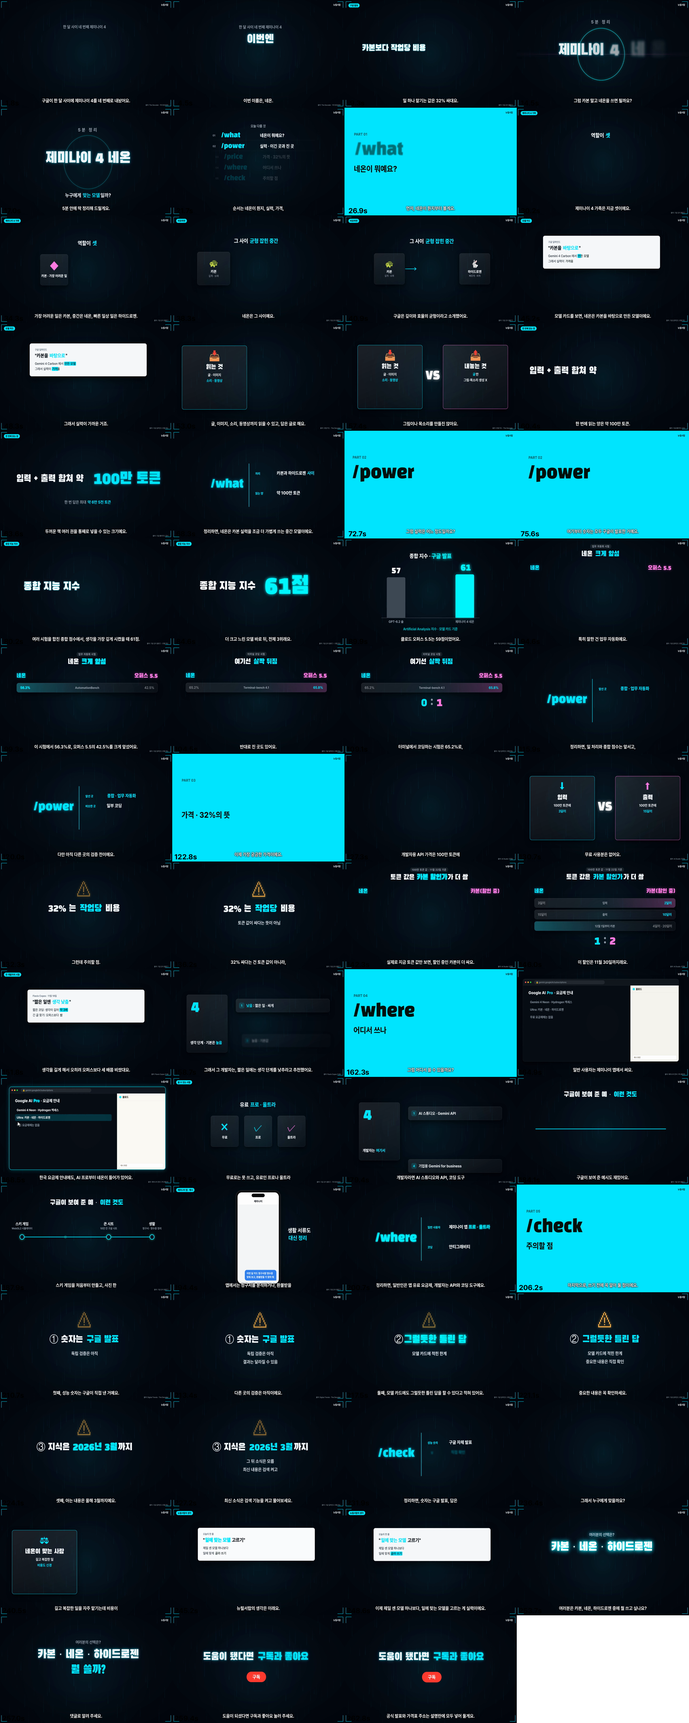
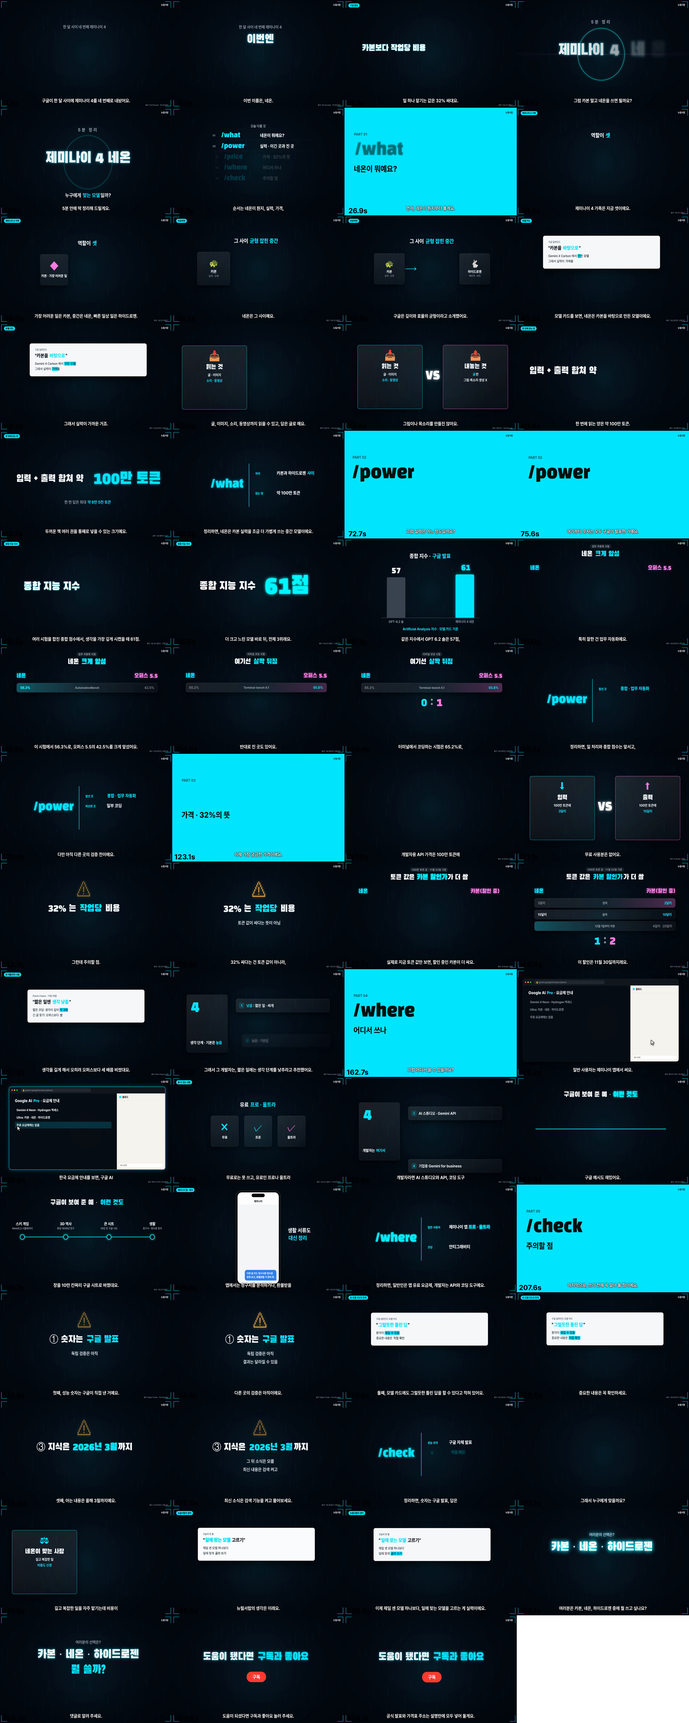
제미나이 4 네온 5분 영상 v1 세트(듣기 검수 0건 · PC 재녹음 필요 표시)
Claude-Session: https://claude.ai/code/session_01QAwgc5CgfRqDU2a4ySE2yW

diff --git a/output/neon4_neon/qc_report.md b/output/neon4_neon/qc_report.md
@@ -1,12 +1,12 @@
 # 품질검수 보고서
 
-- 파일: `final.mp4`  길이 265.9초
-- 음량: -14.4 LUFS (목표 -14), 피크 -4.293121 dB
+- 파일: `final.mp4`  길이 267.23초
+- 음량: -14.4 LUFS (목표 -14), 피크 -4.182065 dB
 
 | 항목 | 결과 |
 |---|---|
-| 음성↔대본 일치(완성본 재인식) | ⚠ 불일치 4/63 구간 (CER>0.3) |
-| TTS 자동 재생성 | 5구간 재생성 후 최적본 채택 |
+| 음성↔대본 일치(완성본 재인식) | ⚠ 불일치 5/63 구간 (CER>0.3) |
+| TTS 자동 재생성 | 4구간 재생성 후 최적본 채택 |
 | 소리 끊김 | ✅ 0건 |
 | 화면 멈춤(2.0초 이상) | ⚠ 2건 |
 | 검은 화면 | ✅ 0건 |
@@ -21,10 +21,10 @@
 | 5.92 | 구글 발표로는, 최상위 카본에 가까운 실력인데, 일 하나 맡기는 값은 32% 싸대요. | 구글 발표로는, 최상위 카본에 가까운 실력인데, 일 하나 맡기는 값은 삼십이 퍼센트 싸대요. | 구글발표로는최상위학원에가까운실력인데이러나맡기는값은 32퍼센트싸대요. | 0.111 |
 | 13.09 | 그럼 카본 말고 네온을 쓰면 될까요? | 그럼 카본 말고 네온을 쓰면 될까요? | 그럼카운말고내원을쓰면될까요? | 0.214 |
 | 16.05 | 5분 안에 딱 정리해 드릴게요. | 오 분 안에 딱 정리해 드릴께요. | 5분안에딱정리해드릴게요. | 0.0 |
-| 18.45 | 순서는 네온이 뭔지, 실력, 가격, 어디서 쓰는지, 그리고 주의할 점이에요. | 순서는 네온이 뭔지, 실력, 가격, 어디서 쓰는지, 그리고 주의할 점이에요. | 순서는내용이뭔지실역가격어디서쓰는지그리고주의할점이에요. | 0.107 |
+| 18.45 | 순서는 네온이 뭔지, 실력, 가격, 어디서 쓰는지, 그리고 주의할 점이에요. | 순서는 네온이 뭔지, 실력, 가격, 어디서 쓰는지, 그리고 주의할 점이에요. | 순서는내운이뭔지실력가격어디서쓰는지그리고주의할점이에요. | 0.071 |
 | 25.45 | 먼저, 네온이 뭔지부터 볼게요. | 먼저, 네온이 뭔지부터 볼께요. | 먼저내용이뭔지부터볼게요. | 0.167 |
 | 28.82 | 제미나이 4 가족은 지금 셋이에요. | 제미나이 사 가족은 지금 셋이에요. | 재민아이사가족은지금 3시에요. | 0.357 ⚠ |
-| 31.66 | 가장 어려운 일은 카본, 중간은 네온, 빠른 일상 일은 하이드로젠. | 가장 어려운 일은 카본, 중간은 네온, 빠른 일상 일은 하이드로젠. | 가장어려운일은학원중간은내혼, 빠른일상일은하이드로젠. | 0.16 |
+| 31.66 | 가장 어려운 일은 카본, 중간은 네온, 빠른 일상 일은 하이드로젠. | 가장 어려운 일은 카본, 중간은 네온, 빠른 일상 일은 하이드로젠. | 가장어려운일은카본중간은내혼, 빠른일상일은하이드로젠. | 0.08 |
 | 37.45 | 네온은 그 사이예요. | 네온은 그 사이예요. | 내오는그사이에요. | 0.5 ⚠ |
 | 39.29 | 구글은 깊이와 효율의 균형이라고 소개했어요. | 구글은 깊이와 효율의 균형이라고 소개했어요. | 구글은기피와효율에균형이라고소개했어요. | 0.158 |
 | 42.92 | 모델 카드를 보면, 네온은 카본을 바탕으로 만든 모델이에요. | 모델 카드를 보면, 네온은 카본을 바탕으로 만든 모델이에요. | 로들카드를보면내오는카분을바탕으로만든모델이에요. | 0.25 |
@@ -32,59 +32,59 @@
 | 49.59 | 글, 이미지, 소리, 동영상까지 읽을 수 있고, 답은 글로 해요. | 글, 이미지, 소리, 동영상까지 읽을 수 있고, 답은 글로 해요. | 그이미지소리. 동영상까지읽을수있고답은글로에요. | 0.091 |
 | 56.43 | 그림이나 목소리를 만들진 않아요. | 그림이나 목소리를 만들진 않아요. | 그림이나목소리를만들진않아요. | 0.0 |
 | 58.85 | 한 번에 읽는 양은 약 100만 토큰. | 한 번에 읽는 양은 약 백만 토큰. | 한번에있는양은약백만토크. | 0.167 |
-| 62.01 | 두꺼운 책 여러 권을 통째로 넣을 수 있는 크기예요. | 두꺼운 책 여러 권을 통째로 넣을 수 있는 크기예요. | 두꺼운책여러권을통째로넣을수있는크기에요. | 0.05 |
+| 62.05 | 두꺼운 책 여러 권을 통째로 넣을 수 있는 크기예요. | 두꺼운 책 여러 권을 통째로 넣을 수 있는 크기예요. | 두꺼운책여러권을통째로넣을수있는크기에요. | 0.05 |
 | 65.75 | 정리하면, 네온은 카본 실력을 조금 더 가볍게 쓰는 중간 모델이에요. | 정리하면, 네온은 카본 실력을 조금 더 가볍게 쓰는 중간 모델이에요. | 정리하면나오는카건실력을조금더가볍게쓰는중간모델이에요. | 0.148 |
 | 71.32 | 그럼 실력은 어느 정도일까요? | 그럼 실력은 어느 정도일까요? | 그럼실력은어느정도일까요? | 0.0 |
 | 74.2 | 여기부터 숫자는 모두 구글이 발표한 거예요. | 여기부터 숫자는 모두 구글이 발표한 거예요. | 여기부터숫자는모두구글이발평한거에요. | 0.111 |
 | 77.42 | 여러 시험을 합친 종합 점수에서, 생각을 가장 깊게 시켰을 때 61점. | 여러 시험을 합친 종합 점수에서, 생각을 가장 깊게 시켰을 때 육십일 점. | 여러시험을합친종합점수에서생각을가장깊게시켰을때 61점 | 0.0 |
 | 83.1 | 더 크고 느린 모델 바로 뒤, 전체 3위래요. | 더 크고 느린 모델 바로 뒤, 전체 삼 위래요. | 더크고느린모델바로왔지. 전체 3이래요. | 0.188 |
-| 86.65 | 같은 지수에서 GPT 6.2 솔은 57점, 클로드 오퍼스 5.5는 59점이었어요. | 같은 지수에서 지피티 육 점 이 솔은 오십칠 점, 클로드 오퍼스 오 점 오는 오십구 점이었어요. | 같은지수에서 GPT 6점이소론 57점 5점 5는 59점이었어요. | 0.222 |
-| 93.62 | 특히 잘한 건 업무 자동화예요. | 특히 잘한 건 업무 자동화예요. | 특히잘한건업무자동화야 | 0.167 |
-| 95.7 | 이 시험에서 56.3%로, 오퍼스 5.5의 42.5%를 크게 앞섰어요. | 이 시험에서 오십육 점 삼 퍼센트로, 오퍼스 오 점 오의 사십이 점 오 퍼센트를 크게 앞섰어요. | 어. 이시험에서 56점 3퍼센트로오퍼스 5.5에 42점 5 퍼센트를크게앞섰어요. | 0.056 |
-| 103.35 | 반대로 진 곳도 있어요. | 반대로 진 곳도 있어요. | 반대로진곳도있어요. | 0.0 |
-| 105.67 | 터미널에서 코딩하는 시험은 65.2%로, 오퍼스의 65.8%에 살짝 뒤졌어요. | 터미널에서 코딩하는 시험은 육십오 점 이 퍼센트로, 오퍼스의 육십오 점 팔 퍼센트에 살짝 뒤졌어요. | 터미널에서코딩하는시험은 65점이퍼센트로오퍼스에 65점 8 퍼센트에살짝뒤졌어요. | 0.025 |
-| 112.95 | 정리하면, 일 처리와 종합 점수는 앞서고, 일부 코딩은 비슷하거나 조금 뒤져요. | 정리하면, 일 처리와 종합 점수는 앞서고, 일부 코딩은 비슷하거나 조금 뒤져요. | 정리하면일처리와종합점수는앞서고, 일부코딩은비슷하거나조금뒤져요. | 0.0 |
-| 118.95 | 다만 아직 다른 곳의 검증 전이에요. | 다만 아직 다른 곳의 검증 전이에요. | 다만아직다른곳에검증전이에요. | 0.071 |
-| 121.59 | 이제 가장 궁금한 가격이에요. | 이제 가장 궁금한 가격이에요. | 이제가장궁금한가격에요. | 0.083 |
-| 124.42 | 개발자용 API 가격은 100만 토큰에 입력 3달러, 출력 15달러예요. | 개발자용 에이피아이 가격은 백만 토큰에 입력 삼 딸러, 출력 십오 딸러예요. | 기발짜용  API 가격은백만토크내입력 3달러. 출력 15 달러에요. | 0.167 |
-| 130.2 | 무료 사용분은 없어요. | 무료 사용분은 없어요. | 무료는없어요. | 0.444 ⚠ |
-| 131.69 | 그런데 주의할 점. | 그런데 주의할 점. | 그런데주의할 | 0.143 |
-| 133.05 | 32% 싸다는 건 토큰 값이 아니라, 일 하나를 끝내는 데 드는 값이에요. | 삼십이 퍼센트 싸다는 건 토큰 값이 아니라, 일 하나를 끝내는 데 드는 값이에요. | 좀 32퍼센트싸다는건토큼값이아니라일하나를끝내는데드는값이요. | 0.097 |
-| 139.85 | 실제로 지금 토큰 값만 보면, 할인 중인 카본이 더 싸요. | 실제로 지금 토큰 값만 보면, 할인 중인 카본이 더 싸요. | 실제로지금토크값만보면할인중엔카분이더쌓여. | 0.238 |
-| 144.89 | 이 할인은 11월 30일까지래요. | 이 할인은 십일 월 삼십 일까지래요. | 이할인은 11월 30일까지래요. | 0.0 |
-| 147.65 | 또 한 개발자는 짧은 코딩 일을 시켜 보니, 네온이 생각을 길게 해서 오히려 오퍼스보다 세 배쯤 비쌌대요. | 또 한 개발자는 짧은 코딩 일을 시켜 보니, 네온이 생각을 길게 해서 오히려 오퍼스보다 세 배쯤 비쌌대요. | 또한개발자는짧은코딩일을시켜보니내운이생각을깊게해서오히려오버스보다세배쯤비쌌대요. | 0.098 |
-| 156.52 | 그래서 그 개발자는, 짧은 일에는 생각 단계를 낮추라고 추천했어요. | 그래서 그 개발자는, 짧은 일에는 생각 단계를 낮추라고 추천했어요. | 그래서그개발자는짧은일으는생각단계를낮추라고추천했어요. | 0.037 |
-| 161.45 | 그럼 어디서 쓸 수 있을까요? | 그럼 어디서 쓸 수 있을까요? | 그럼어디서쓸수있을까여. | 0.091 |
-| 163.85 | 일반 사용자는 제미나이 앱에서 써요. | 일반 사용자는 제미나이 앱에서 써요. | 일반사용자는재미나이예비소스 | 0.4 ⚠ |
-| 165.97 | 한국 요금제 안내에도, AI 프로부터 네온이 들어가 있어요. | 한국 요금제 안내에도, 에이아이 프로부터 네온이 들어가 있어요. | 한국요금제안내에도 AI부터내온이들어가있어요. | 0.115 |
-| 171.49 | 무료로는 못 쓰고, 유료인 프로나 울트라 가입자에게 차례로 열리고 있어요. | 무료로는 못 쓰고, 유료인 프로나 울트라 가입자에게 차례로 열리고 있어요. | 무료로는못쓰고도로인프로나울트라입자에게차례로열리고있어요. | 0.1 |
-| 175.95 | 개발자라면 AI 스튜디오와 API, 코딩 도구 안티그래비티, 안드로이드 스튜디오에서도 쓸 수 있어요. | 개발자라면 에이아이 스튜디오와 에이피아이, 코딩 도구 안티그래비티, 안드로이드 스튜디오에서도 쓸 수 있어요. | 개발자라면 AI 스튜디오와에이피아이. 코딩도고안티그래비티안드로이드스튜디오에서도쓸수있어요. | 0.022 |
-| 183.35 | 구글이 보여 준 예시도 재밌어요. | 구글이 보여 준 예시도 재밌어요. | 구글이보여준예시도재밌으 | 0.154 |
-| 184.87 | 스키 게임을 처음부터 만들고, 사진 한 장을 10만 칸짜리 구글 시트로 바꿨대요. | 스키 게임을 처음부터 만들고, 사진 한 장을 십만 칸짜리 구글 시트로 바꿨대요. | 께임을처음부터만들고사진한장을침만한짜리구걸시트로바꿨대요. | 0.194 |
-| 191.49 | 앱에서는 청구서를 분석하거나, 환불받을 영수증을 맞춰 보는 일에도 쓸 수 있대요. | 앱에서는 청구서를 분석하거나, 환불받을 영수증을 맞춰 보는 일에도 쓸 수 있대요. | 앱에서는청구서를분석하거나환불받을영수증을맞춰보는이래도쓸수있대요. | 0.061 |
-| 197.89 | 정리하면, 일반인은 앱 유료 요금제, 개발자는 API와 코딩 도구예요. | 정리하면, 일반인은 앱 유료 요금제, 개발자는 에이피아이와 코딩 도구예요. | 정리하면일반인은앱유료요금제. 개발자는 API와코딩도구해요. | 0.033 |
-| 204.02 | 마지막으로, 쓰기 전에 꼭 알아 둘 점이에요. | 마지막으로, 쓰기 전에 꼭 알아 둘 점이에요. | 마지막으로쓰기전에꼭알아들저위에요. | 0.176 |
-| 208.92 | 첫째, 성능 숫자는 구글이 직접 낸 거예요. | 첫째, 성능 숫자는 구글이 직접 낸 거예요. | 첫째성능수자는구글이직접낸거에요. | 0.125 |
-| 212.6 | 다른 곳의 검증은 아직이에요. | 다른 곳의 검증은 아직이에요. | 다른곳에검증은아직이에요. | 0.083 |
-| 214.75 | 둘째, 모델 카드에도 그럴듯한 틀린 답을 할 수 있다고 적혀 있어요. | 둘째, 모델 카드에도 그럴듯한 틀린 답을 할 수 있다고 적혀 있어요. | 둘째모델카드에도그럴때타린답을할수있다고적혀있어요. | 0.115 |
-| 220.35 | 중요한 내용은 꼭 확인하세요. | 중요한 내용은 꼭 확인하세요. | 중요한내용은꼭확인하세요. | 0.0 |
-| 222.32 | 셋째, 아는 내용은 올해 3월까지예요. | 셋째, 아는 내용은 올해 삼 월까지예요. | 셋째아는내용은올해 3월까지해요. | 0.067 |
-| 226.0 | 최신 소식은 검색 기능을 켜고 물어보세요. | 최신 소식은 검색 기능을 켜고 물어보세요. | 최신소식은검색기능을켜고물어보세요. | 0.0 |
-| 228.92 | 정리하면, 숫자는 구글 발표, 답은 직접 확인, 최신 소식은 검색이에요. | 정리하면, 숫자는 구글 발표, 답은 직접 확인, 최신 소식은 검색이에요. | 중요하면숫자는구글발표, 땀은직접확인. 최신소식은검색이에요. | 0.111 |
-| 235.42 | 그래서 누구에게 맞을까요? | 그래서 누구에게 맞을까요? | 그래서누구얘기맞을까요? | 0.182 |
-| 237.46 | 길고 복잡한 일을 자주 맡기는데 비용이 걱정이라면, 네온부터 써 볼 만해요. | 길고 복잡한 일을 자주 맡기는데 비용이 걱정이라면, 네온부터 써 볼 만해요. | 길고복잡한일을자주맡기는데, 비용이걱정이라면내용부터써볼만해요. | 0.067 |
-| 244.09 | 뉴럴서랍의 생각은 이래요. | 뉴럴서랍의 생각은 이래요. | 유럴소라의생각은이래요. | 0.273 |
-| 246.51 | 이제 제일 센 모델 하나보다, 일에 맞는 모델을 고르는 게 실력이에요. | 이제 제일 센 모델 하나보다, 일에 맞는 모델을 고르는 게 실력이에요. | 이제제일쎈모델하나보다일에맞는모델을고르는게실력이에요. | 0.037 |
-| 251.15 | 여러분은 카본, 네온, 하이드로젠 중에 뭘 쓰고 싶나요? | 여러분은 카본, 네온, 하이드로젠 중에 뭘 쓰고 싶나요? | 여러분은카본내용하이드로잰중에뭘쓰고싶나요? | 0.143 |
-| 256.39 | 댓글로 알려 주세요. | 댓글로 알려 주세요. | 댓글로알려주세요. | 0.0 |
-| 258.02 | 도움이 되셨다면 구독과 좋아요 눌러 주세요. | 도움이 되셨다면 구독과 좋아요 눌러 주세요. | 도움이드셨다면구독과좋아요. 놀러주세요. | 0.111 |
-| 260.94 | 공식 발표와 가격표 주소는 설명란에 모두 넣어 둘게요. | 공식 발표와 가격표 주소는 설명란에 모두 넣어 둘께요. | 공식발표와가격표주서는설명회모두넣어볼까여. | 0.273 |
+| 86.65 | 같은 지수에서 GPT 6.2 솔은 57점, 그리고 클로드 오퍼스 5.5는 59점이었어요. | 같은 지수에서 지피티 육 점 이 솔은 오십칠 점, 그리고 클로드 오퍼스 오 점 오는 오십구 점이었어요. | 같은지수에서 GPT 6점이솔은 57점그리고클로드오버스 5점 5는 59점이었어요. | 0.026 |
+| 93.99 | 특히 잘한 건 업무 자동화예요. | 특히 잘한 건 업무 자동화예요. | 특히잘한건업무자동화 | 0.167 |
+| 96.07 | 이 시험에서 56.3%로, 오퍼스 5.5의 42.5%를 크게 앞섰어요. | 이 시험에서 오십육 점 삼 퍼센트로, 오퍼스 오 점 오의 사십이 점 오 퍼센트를 크게 앞섰어요. | 어. 이시험에서 56점 3퍼센트로오퍼스 5.5에 42점 5 퍼센트를크게앞섰어요. | 0.056 |
+| 103.72 | 반대로 진 곳도 있어요. | 반대로 진 곳도 있어요. | 반대로진곳도있어요. | 0.0 |
+| 106.04 | 터미널에서 코딩하는 시험은 65.2%로, 오퍼스의 65.8%에 살짝 뒤졌어요. | 터미널에서 코딩하는 시험은 육십오 점 이 퍼센트로, 오퍼스의 육십오 점 팔 퍼센트에 살짝 뒤졌어요. | 터미널에서코딩하는시험은 65점이퍼센트로오퍼스에 65점 8 퍼센트에살짝뒤졌어요. | 0.025 |
+| 113.32 | 정리하면, 일 처리와 종합 점수는 앞서고, 일부 코딩은 비슷하거나 조금 뒤져요. | 정리하면, 일 처리와 종합 점수는 앞서고, 일부 코딩은 비슷하거나 조금 뒤져요. | 정리하면일처리와종합점수는앞서고, 일부코딩은비슷하거나조금뒤져요. | 0.0 |
+| 119.32 | 다만 아직 다른 곳의 검증 전이에요. | 다만 아직 다른 곳의 검증 전이에요. | 다만아직다른곳에검증전이에요. | 0.071 |
+| 121.95 | 이제 가장 궁금한 가격이에요. | 이제 가장 궁금한 가격이에요. | 이제가장궁금한가격에요. | 0.083 |
+| 124.79 | 개발자용 API 가격은 100만 토큰에 입력 3달러, 출력 15달러예요. | 개발자용 에이피아이 가격은 백만 토큰에 입력 삼 딸러, 출력 십오 딸러예요. | 개발자용 AI 가격이 100만토크에입력 3달러. 출력 15 달러에요. | 0.133 |
+| 130.57 | 무료 사용분은 없어요. | 무료 사용분은 없어요. | 무료는없어요. | 0.444 ⚠ |
+| 132.05 | 그런데 주의할 점. | 그런데 주의할 점. | 그런데주의할 | 0.143 |
+| 133.41 | 32% 싸다는 건 토큰 값이 아니라, 일 하나를 끝내는 데 드는 값이에요. | 삼십이 퍼센트 싸다는 건 토큰 값이 아니라, 일 하나를 끝내는 데 드는 값이에요. | 좀 32퍼센트싸다는건토큼값이아니라일하나를끝내는데드는값이요. | 0.097 |
+| 140.22 | 실제로 지금 토큰 값만 보면, 할인 중인 카본이 더 싸요. | 실제로 지금 토큰 값만 보면, 할인 중인 카본이 더 싸요. | 실제로지금토크값만보면할인중엔카분이더쌓여 | 0.238 |
+| 145.26 | 이 할인은 11월 30일까지래요. | 이 할인은 십일 월 삼십 일까지래요. | 이할인은 11월 30일까지래요. | 0.0 |
+| 148.02 | 또 한 개발자는 짧은 코딩 일을 시켜 보니, 네온이 생각을 길게 해서 오히려 오퍼스보다 세 배쯤 비쌌대요. | 또 한 개발자는 짧은 코딩 일을 시켜 보니, 네온이 생각을 길게 해서 오히려 오퍼스보다 세 배쯤 비쌌대요. | 또한개발자는짧은코딩일을시켜보니내운이생각을깊게해서오히려오버스보다세배쯤비쌌대요. | 0.098 |
+| 156.89 | 그래서 그 개발자는, 짧은 일에는 생각 단계를 낮추라고 추천했어요. | 그래서 그 개발자는, 짧은 일에는 생각 단계를 낮추라고 추천했어요. | 그래서그개발자는짧은일으는생각단계를낮추라고추천했어요. | 0.037 |
+| 161.82 | 그럼 어디서 쓸 수 있을까요? | 그럼 어디서 쓸 수 있을까요? | 그럼어디서쓸수있을까요? | 0.0 |
+| 164.22 | 일반 사용자는 제미나이 앱에서 써요. | 일반 사용자는 제미나이 앱에서 써요. | 일반세종자는재미나이에베서 | 0.467 ⚠ |
+| 166.22 | 한국 요금제 안내를 보면, 구글 AI 프로 요금제부터 네온이 들어 있어요. | 한국 요금제 안내를 보면, 구글 에이아이 프로 요금제부터 네온이 들어 있어요. | 아요. 한국요금제안내를보면구글 AI 요금제부터내용이들어있어요. | 0.194 |
+| 173.02 | 무료로는 못 쓰고, 유료인 프로나 울트라 가입자에게 차례로 열리고 있어요. | 무료로는 못 쓰고, 유료인 프로나 울트라 가입자에게 차례로 열리고 있어요. | 무료로는못쓰고  일요일인프로나울트라입자에게차례로열리고있어요. | 0.133 |
+| 177.49 | 개발자라면 AI 스튜디오와 API, 코딩 도구 안티그래비티, 안드로이드 스튜디오에서도 쓸 수 있어요. | 개발자라면 에이아이 스튜디오와 에이피아이, 코딩 도구 안티그래비티, 안드로이드 스튜디오에서도 쓸 수 있어요. | 개발자라면 AI 스튜디오와에이피아이. 코딩도고안티그래비티안드로이드스튜디오에서도쓸수있어요. | 0.022 |
+| 184.89 | 구글 예시도 재밌어요. | 구글 예시도 재밌어요. | 구글예시도재밌어요. | 0.0 |
+| 187.01 | 처음부터 스키 게임을 만들고, 사진 한 장을 10만 칸짜리 구글 시트로 바꿨대요. | 처음부터 스키 게임을 만들고, 사진 한 장을 십만 칸짜리 구글 시트로 바꿨대요. | 처음부터스케임을만들고사진한장을신만칸짜리구글시트로바꿨대요. | 0.097 |
+| 192.82 | 앱에서는 청구서를 분석하거나, 환불받을 영수증을 맞춰 보는 일에도 쓸 수 있대요. | 앱에서는 청구서를 분석하거나, 환불받을 영수증을 맞춰 보는 일에도 쓸 수 있대요. | 집에서는청구서를분석하거나환불받을영수증을맞춰보는이래도쓸수있대요. | 0.091 |
+| 199.22 | 정리하면, 일반인은 앱 유료 요금제, 개발자는 API와 코딩 도구예요. | 정리하면, 일반인은 앱 유료 요금제, 개발자는 에이피아이와 코딩 도구예요. | 정리하면일반인은앱유료요금제. 개발자는 API와코딩도구해요. | 0.033 |
+| 205.35 | 마지막으로, 쓰기 전에 꼭 알아 둘 점이에요. | 마지막으로, 쓰기 전에 꼭 알아 둘 점이에요. | 마지막으로쓰기전에꼭알아들저위에요. | 0.176 |
+| 210.25 | 첫째, 성능 숫자는 구글이 직접 낸 거예요. | 첫째, 성능 숫자는 구글이 직접 낸 거예요. | 첫째성능수자는구글이직접낸거에요. | 0.125 |
+| 213.93 | 다른 곳의 검증은 아직이에요. | 다른 곳의 검증은 아직이에요. | 다른곳에검증은아직이에요. | 0.083 |
+| 216.09 | 둘째, 모델 카드에도 그럴듯한 틀린 답을 할 수 있다고 적혀 있어요. | 둘째, 모델 카드에도 그럴듯한 틀린 답을 할 수 있다고 적혀 있어요. | 둘째모델카드에도그럴때타린답을할수있다고적혀있어요. | 0.115 |
+| 221.81 | 중요한 내용은 꼭 확인하세요. | 중요한 내용은 꼭 확인하세요. | 요한내용은꼭확인하세요. | 0.083 |
+| 223.65 | 셋째, 아는 내용은 올해 3월까지예요. | 셋째, 아는 내용은 올해 삼 월까지예요. | 셋째아는내용은올해 3월까지해요. | 0.067 |
+| 227.33 | 최신 소식은 검색 기능을 켜고 물어보세요. | 최신 소식은 검색 기능을 켜고 물어보세요. | 최신소식은검색기능을켜고물어보세요. | 0.0 |
+| 230.25 | 정리하면, 숫자는 구글 발표, 답은 직접 확인, 최신 소식은 검색이에요. | 정리하면, 숫자는 구글 발표, 답은 직접 확인, 최신 소식은 검색이에요. | 정료하면숫자는구글발표, 땀은직접확인. 최신소식은검색이에요. | 0.074 |
+| 236.75 | 그래서 누구에게 맞을까요? | 그래서 누구에게 맞을까요? | 그래서누구얘기맞을까요? | 0.182 |
+| 238.79 | 길고 복잡한 일을 자주 맡기는데 비용이 걱정이라면, 네온부터 써 볼 만해요. | 길고 복잡한 일을 자주 맡기는데 비용이 걱정이라면, 네온부터 써 볼 만해요. | 길고복잡한일을자주맡기는데, 비용이걱정이라면내용부터써볼만해요. | 0.067 |
+| 245.42 | 뉴럴서랍의 생각은 이래요. | 뉴럴서랍의 생각은 이래요. | 유롤소라의생각은이래요. | 0.364 ⚠ |
+| 247.84 | 이제 제일 센 모델 하나보다, 일에 맞는 모델을 고르는 게 실력이에요. | 이제 제일 센 모델 하나보다, 일에 맞는 모델을 고르는 게 실력이에요. | 이제제일쎈모델하나보다미래맡는모델을고르는게실력이에요. | 0.148 |
+| 252.49 | 여러분은 카본, 네온, 하이드로젠 중에 뭘 쓰고 싶나요? | 여러분은 카본, 네온, 하이드로젠 중에 뭘 쓰고 싶나요? | 여러분은카곤내혼하이드로잰중에뭘쓰고싶나요? | 0.19 |
+| 257.77 | 댓글로 알려 주세요. | 댓글로 알려 주세요. | 댓글로알려주세요. | 0.0 |
+| 259.35 | 도움이 되셨다면 구독과 좋아요 눌러 주세요. | 도움이 되셨다면 구독과 좋아요 눌러 주세요. | 도움이되셨다면구독과좋아요. 놀러주세요. | 0.056 |
+| 262.27 | 공식 발표와 가격표 주소는 설명란에 모두 넣어 둘게요. | 공식 발표와 가격표 주소는 설명란에 모두 넣어 둘께요. | 공식발표와가격표주서는설명회에모두넣어볼까여. | 0.227 |
 
 ## 화면 멈춤
-- (124.433, 127.467)
-- (235.433, 237.433)
+- (124.8, 127.833)
+- (236.767, 238.767)
 
 ## 에디토리얼 스타일 점검
-- ⚠ 같은 장면 종류 'warn' 가 3번 연속
+- ✅ 위반 없음
 
-- 내레이션 속도 5.3음절/초, 효과음 54개, 장면 39개 (평균 6.8초)
+- 내레이션 속도 5.3음절/초, 효과음 54개, 장면 39개 (평균 6.9초)

diff --git a/release/제미나이4_네온_정리/버전기록.md b/release/제미나이4_네온_정리/버전기록.md
@@ -1,0 +1,21 @@
+# 제미나이4_네온_정리 버전 기록
+
+| 버전 | 날짜 | 길이 | 검수 | 바뀐 점 |
+|---|---|---|---|---|
+| v1 | 2026-11-22 | 4:27 | 음성불일치 5 · 끊김 0 · 멈춤 2 · 검은화면 0 · 개인정보 0 · 자막 0 | 첫 풀영상(클라우드 Qwen 음성 · PC 재녹음 필요) |
+
+- v1 메모 (2026-11-22):
+  - 영상: 4분 27초, 39장면, -14.4 LUFS.
+  - 화면 모양: 남빛·아쿠아·분홍 네온, 비, 꺾쇠, 흘러가기.
+  - 썸네일: 새 모양 `neonsign`.
+  - **⚠ PC 재녹음 필요**:
+    - 목소리는 클라우드 Qwen3-TTS Sohee 입니다. 여의도여자와 같은 엔진·프리셋이지만 PC Voicebox 로 녹음하지 않았습니다.
+    - PC 를 연결한 뒤 `python editorial/make_editorial.py projects/neon4_neon.yaml` 를 다시 실행하면 됩니다.
+  - 매니저 듣기 검수: 1차에서 3곳 빠짐('프로', '클로드', '스키 게임')이 나와 문장을 고쳤고, 2차 0건.
+  - 사실 확인:
+    - 출처: 구글 블로그, 모델 카드, AI Studio 가격표, 클라우드 문서, 한국 구독 페이지 원문(docs/research/gemini4_neon.md).
+    - 61점은 생각 단계 '아주 높음' 기준이라 대사에 밝혔습니다.
+    - 32% 는 작업당 비용입니다. 토큰 단가는 할인 중인 카본이 더 싸다는 점도 함께 말했습니다.
+    - 벤치마크는 구글 자체 발표라는 점을 대사·설명란에 밝혔습니다.
+  - 말하지 않은 것: AI Pro 원화 가격, '아르곤 대체', API 의 한국 이용 여부.
+  - QC: 2~3초 정지 화면 2곳(가격 장면 등)이 있으나 대사가 이어져 그대로 두었습니다.

diff --git a/output/neon4_neon/description.md b/output/neon4_neon/description.md
@@ -11,7 +11,7 @@
 01:11 PART 02 · 실력
 02:01 PART 03 · 가격
 02:41 PART 04 · 어디서 쓰나
-03:23 PART 05 · 주의할 점
+03:25 PART 05 · 주의할 점
 
 주요 자료
 - 구글 공식 블로그, Introducing Gemini 4 Neon (2026-11-18) · https://blog.google/innovation-and-ai/models-and-research/gemini-models/introducing-gemini-4-neon/
